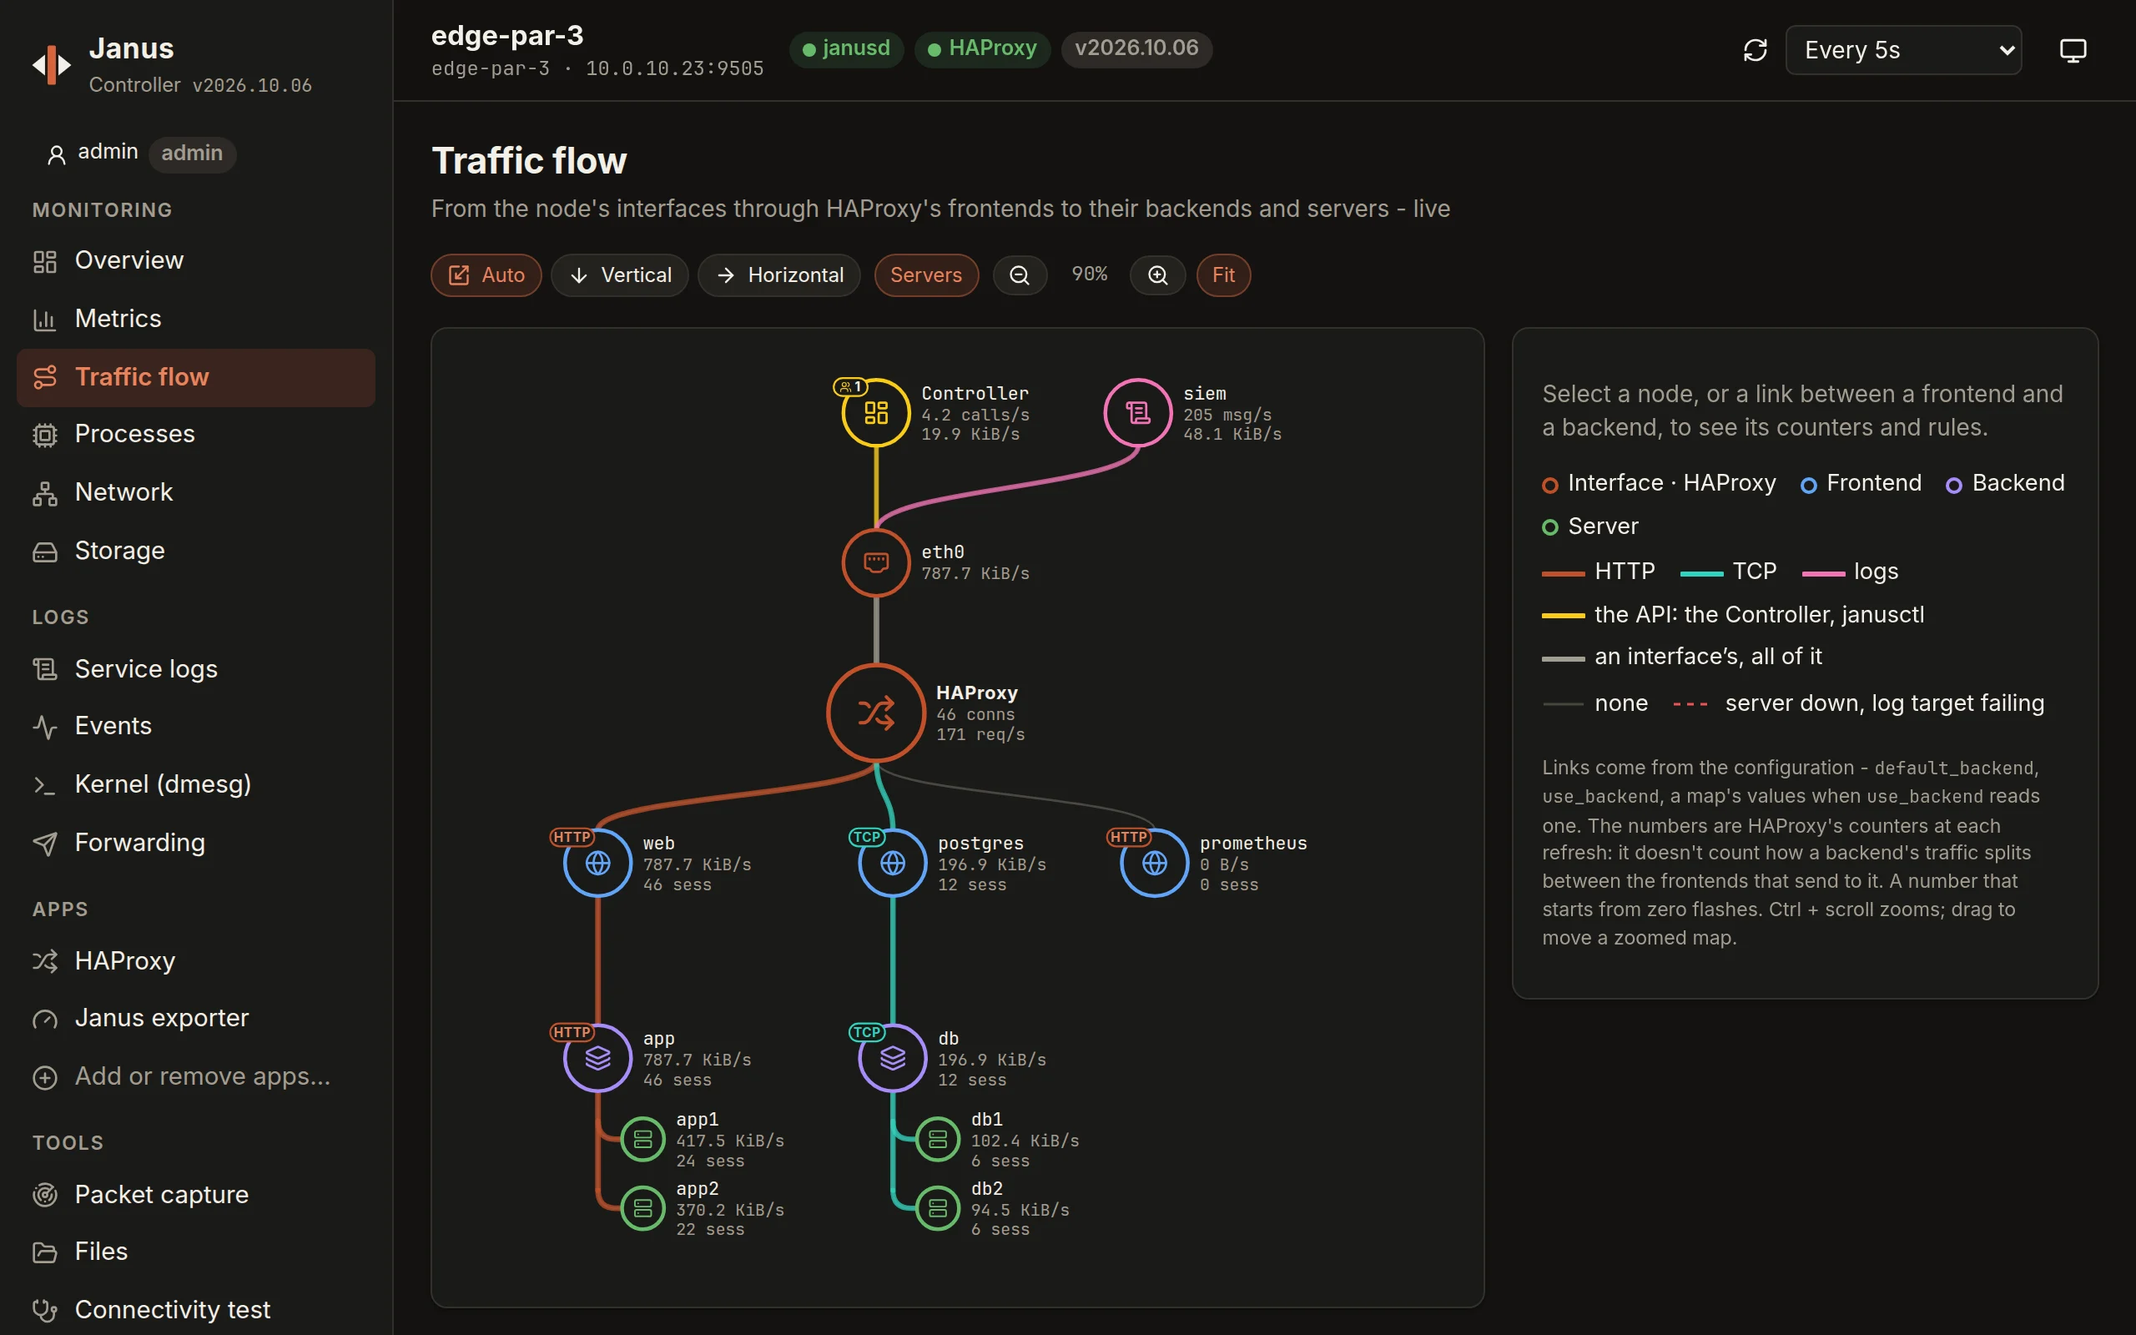
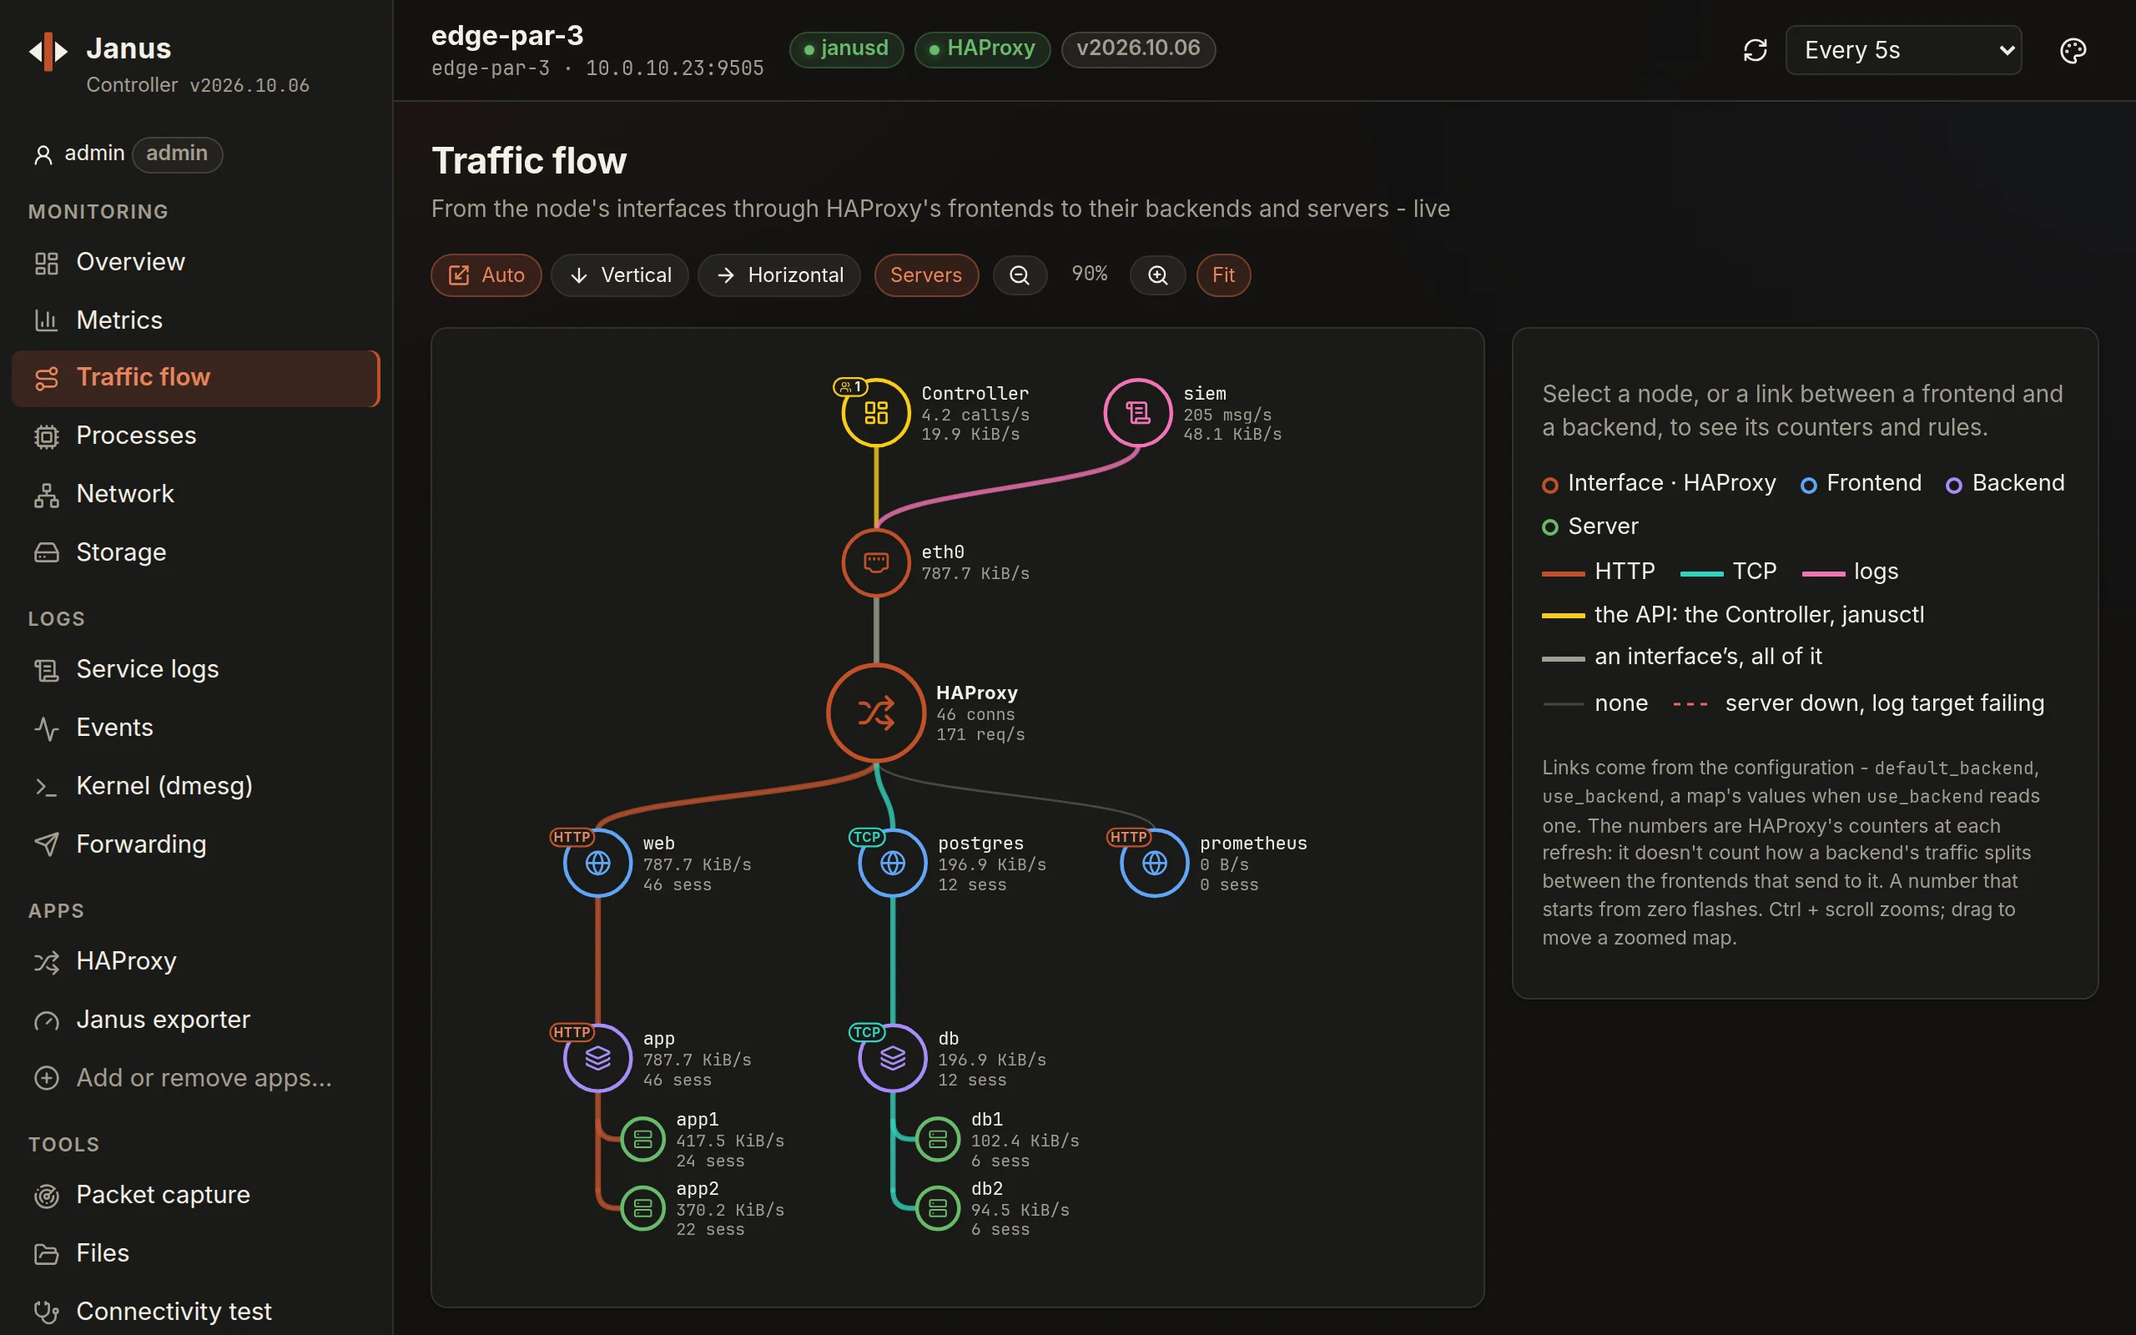
docs: the Controller's appearance, charts, rail and curves
docs/controller-ui.md: the palettes and the picker (Appearance), the
fluid charts (Charts), the gauges, the rail, the node list's curves and
their sampler, ui-preview's new address, reload ui and check; theme.css
is the site's too. The READMEs say what the pages look like now,
docs/upstreams.md where the font comes from.

The docs' screenshots taken again: hack/browser/shots.mjs gives the
node list's curves and the mounts fixed figures, pins a node page's
sidebar open (folded, it's a rail of icons) and puts the pointer on the
top bar - (0, 0) is on the sidebar, which opens under it.

diff --git a/docs/controller-ui.md b/docs/controller-ui.md
@@ -31,10 +31,18 @@ else from `src/shared/`:
   `--accent`, `--ok`/`--warn`/`--danger`/`--info` and their `-soft`
   backgrounds, `--chart-1..5`) and the base components (cards, buttons,
   inputs, badges, tables, notices, meters). Colors come from the logo:
-  warm off-white and near-black, and the brand orange (`#C2502A`,
-  `#D8643C` in dark mode).
+  warm off-white and near-black, and the brand orange (`#C2502A`).
+  **The site imports it too** (`site/`): its colours are the Janus
+  palette's, and a change to it, `theme.jsx` or `ui.jsx` changes the
+  site's build.
 - `theme.jsx` - `ThemeToggle` (system → light → dark, remembered per
-  browser) and `Logo`.
+  browser) and `Logo`: the site's; the Controller has its own (below).
+- The Controller's own, imported by both of its pages after
+  `theme.css` (never by the site): see [Appearance](#appearance) -
+  `palettes.css`, `appearance.js`, `ThemePicker.jsx`, `BrandMark.jsx`,
+  `controller.css` (its look over theme.css: cards, pills, figures,
+  the page's glows, gauges), `Gauge.jsx`, and `chart/` - the charts
+  ([Charts](#charts)).
 - `ui.jsx` - `Card`, `Stat`, `Badge` (+ `stateTone`), `Tabs`,
   `PageHeader`, `Meter`, `Loading`/`ErrorBox`/`Empty`, toasts
   (`useToast`), the confirmation dialog (`useConfirm`) and `useAction`
@@ -48,13 +56,63 @@ else from `src/shared/`:
 
 Rules:
 
-- **Use the tokens, never raw colors.** Every color must work in both
-  themes; dark mode is not an afterthought. Check new screens in both.
+- **Use the tokens, never raw colors.** Every color must work in every
+  palette, light and dark; dark mode is not an afterthought. Check new
+  screens in several (`hack/ui-preview.sh check` walks them all). A new
+  token goes in every block of `palettes.css` - `npm test` holds each
+  one to the same tokens and to WCAG AA.
 - **Reuse the shared primitives** before writing new ones. Something
   both pages could use goes in `src/shared/`.
 - Icons come from `lucide-react` (tree-shaken, only what's imported ships).
 - No UI or chart library beyond that: the chart is our own SVG component
-  (`src/node/components/Chart.jsx`) - small, and it does what we need.
+  (`src/shared/chart/`) - small, and it does what we need.
+- **A card's title is set in small capitals** (`controller.css`); one
+  that names something - a backend, a file, a certificate, a flow node -
+  keeps its case: `className="data-title"` on its `Card`, or a title in
+  `.mono`. Figures are in the monospace face (`--mono`: JetBrains Mono,
+  shipped with the pages - `src/shared/fonts/jetbrains-mono/README.md`).
+
+### Appearance
+
+Five palettes, each light and dark (`palettes.css`): **Janus** - the
+default, theme.css's own colours -, **Nord**, **Abysse** (a deep night
+blue, slightly translucent cards, cyan and green), **Tokyo Night** and
+**Catppuccin**, the official shades adjusted where they fall short of
+AA. The top bar's palette button (`ThemePicker`, on both pages and the
+sign-in screen) chooses the mode - the system's, light or dark - and the
+palette, from tiles drawn in each palette's own colours: a block of
+`palettes.css` applies to any element carrying `data-palette` and
+`data-theme`, not only to the page. Remembered per browser
+(`appearance.js`: `janus-theme`, the site's key for the mode, and
+`janus-palette`) and followed at once by every open page of the
+Controller (`storage` events) and by the system turning dark.
+
+`<html>` always carries the palette and the mode in effect
+(`data-palette`, `data-theme`), set before the page paints by
+`public/theme-boot.js` - a module script runs too late, and a dark
+palette would flash the light default; keep its lists equal to
+`appearance.js`' (a test runs it). `BrandMark` draws the symbol in the
+palette's accent and text colours (the favicon follows only the system's
+mode).
+
+Every block defines the same tokens - theme.css's, plus the Controller's
+own: `--card-bg` (a card's background, translucent in Abysse;
+`--surface` stays opaque for sticky table headers and inputs),
+`--card-shadow`, `--glow-1`/`--glow-2` (the page's two faint glows),
+`--danger-solid` (a solid danger button's fill) and the traffic flow's
+`--flow-tcp`/`--flow-log`/`--flow-api`. `palettes.test.js` holds each
+block to WCAG AA: text and muted text 4.5:1 on the page and its
+surfaces, `--accent-ink` and the status colours 4.5:1 on the page and
+on their `-soft` tints (composited), a danger button's text, the
+accent 3:1, chart colours 3:1 on a card, a flow badge's text 4.5:1 -
+and theme.css to the Janus blocks.
+
+**Gauges** (`Gauge.jsx`, `GaugeStat`): how full something is, a half
+circle of 28 segments lit from the left in a chart colour, amber past
+75 % and red past 90 % (Meter's thresholds), a `meter` to assistive
+technology - a node's CPU, memory and STATE on its Overview, each
+writable filesystem on Storage, a hypervisor's CPU, memory and pool.
+`Meter` stays for bars in tables and relative sizes.
 
 ## The main page
 
@@ -63,7 +121,9 @@ Three tabs (hash routes `#/`, `#/hypervisors`, `#/tokens`), and two more for an 
 **Nodes**: until the fleet is set up, **Secure your fleet**
 (`Fleet.jsx`: create it, store the recovery kit and its passphrase,
 give both back - `/api/fleet/*`, session only); pending approvals, then
-the nodes as cards - each with its **Trust** once the fleet is ready
+the nodes as cards - each with its last five minutes (CPU, HAProxy's
+requests, its traffic: `NodeSparklines`, see [Live data](#live-data))
+and its **Trust** once the fleet is ready
 (`fleet`, `needs an update`, an error) - then the **Fleet** card and
 provisioning. A node the Controller created on a hypervisor shows its
 virtual machine on its card (state, reset/force-off/start, console) and
@@ -265,7 +325,13 @@ confirmation repeats the warning; the Controller's `POST` needs
 Hash routing (`#/haproxy/config`, `#/tools/files?path=/etc`), a sidebar
 grouped by intent, and a sticky top bar with the node's identity, health
 badges, version (and available update), the refresh interval and the
-theme toggle:
+appearance picker. On a wide screen with a mouse the sidebar is a rail
+of its icons (`rail.js`, `node.css`) that opens over the page - never
+pushing it - while the pointer or the keyboard's focus is in it, or
+stays open pinned ("Keep it open", remembered per browser as
+`janus-sidebar`); folding moves nothing - the labels only fade, still
+read by assistive technology. A touch screen keeps it open, a narrow one
+has its drawer. Its groups:
 
 - **Monitoring** - overview, metrics, traffic flow, processes, network,
   storage
@@ -526,8 +592,48 @@ both tests.
   counter going backwards (HAProxy reload) gives no point rather than a
   negative rate.
 - **Charts** leave gaps where data is missing (e.g. during a reboot)
+  and where samples are more than 2.5 intervals apart (a hidden tab),
   instead of drawing a line through them, follow the data until the time
-  window is full, and use binary steps for bytes.
+  window is full, and use binary steps for bytes - see [Charts](#charts).
+  Each sample carries its interval (`iv`); `MetricsProvider` gives every
+  chart of the page one clock (`clock`), so they scroll together.
+- **The node list's curves** (`NodeSparklines.jsx`, `nodeMetrics.js`):
+  `GET /api/nodes/metrics` - each node the account sees, its last
+  minutes of CPU, HAProxy requests and traffic, from the Controller's
+  sampler (below), asked only for what's newer (`?since=`), at the
+  sampler's pace, only while the Nodes tab shows - each request keeps
+  the sampling going -, as a background request.
+
+### Charts
+
+`src/shared/chart/`: `Chart` (and `Sparkline`, a chart reduced to its
+curve), its arithmetic in `math.js` (unit-tested), one animation loop
+for every chart (`scheduler.js`).
+
+- **They move continuously** while the page samples: the time axis
+  scrolls every frame, its right edge about one sampling interval behind
+  the samples' clock (`ServerClock`: the Controller's, a sample's time
+  being when it asked the node; the browser's offset smoothed) - each
+  new sample is already there, just off the edge, when the line reaches
+  it, so the line grows instead of jumping a step per sample. The edge
+  keeps to 0.75-1.25 times the real pace, never goes back, and stops at
+  the newest sample when samples stop; the value axis eases to a new
+  scale.
+- **Curves are monotone cubics** (Steffen's tangents): between two
+  samples the line stays between their values - never below zero beside
+  a burst, never past 100 % - the first series' area (or any with
+  `fill`) fading down to the baseline.
+- **Cheap frames**: a chart builds its paths once per sample, in the
+  samples' own units; a frame sets one transform on them (the lines
+  keep their width, `vector-effect`), the time ticks' and the hovered
+  sample's - set directly, no render. Asleep off screen
+  (IntersectionObserver) and in a hidden tab.
+- **Still** - redrawn per sample, the edge on the newest sample - under
+  "reduce motion", with sampling off, or `motion="static"`: what the
+  docs' screenshots take (Playwright's clock drives animation frames
+  too).
+- Value axes end on round quarters (`niceMax`), time ticks on round
+  times, scrolling with the data and fading at the ends.
 - **Events** (Logs › Events): the node's event log, kept on its STATE -
   the last thousand, across reboots and updates; each `janusd.started` is
   drawn as a line of its own (version, slot), the events of another day
@@ -620,6 +726,17 @@ turn, and the step waited for is written under it.
 - The Controller never exposes its service credential, and the
   browser's certificate is never used to reach the node (see the package
   doc) - a new feature must not change that.
+- **The node list's curves** (`internal/nodemetrics`, `nodes_metrics.go`):
+  one sampler however many pages look, reading a node (`nodeproxy.
+  ReadCounters`: SystemStat, NetworkDeviceStats, ShowInfo) every 5 s
+  only while a page asks for it - each request renews a 45 s lease -,
+  16 at once at most, 4 s each, detached from the request; it keeps 10
+  minutes, so a page opened again finds its curves drawn. It reads as
+  the Controller (`Automation`, like `/api/nodes/status`): those calls
+  are a reader's, in the observe domain every permission on a node
+  includes, so whoever sees a node may read its figures anyway; a node
+  that doesn't trust the fleet yet gets curves for an admin only, like
+  its page.
 
 ## Verifying a change
 
@@ -661,10 +778,16 @@ turn, and the step waited for is written under it.
    account (lea's) on edge-1's page now and then and a janusctl
    following its events - the Traffic flow's Controller users and
    direct clients -, the Controller on `https://127.0.0.1:18443`
-   (`ssh -N -L 18443:127.0.0.1:18443 HOST` from another machine), its account and
-   the `janusctl login` printed. `hack/ui-preview.sh reload` after a
-   change (the binaries built again, the Controller and nodes restarted,
-   their state kept), `down` to remove it.
+   (`ssh -N -L 18443:127.0.0.1:18443 HOST` from another machine, or
+   published on one of its addresses: `UI_PREVIEW_BIND=ADDRESS
+   UI_PREVIEW_HOST=NAME`, the name in its certificate - its passwords
+   are fixed), its account and the `janusctl login` printed.
+   `hack/ui-preview.sh reload` after a change (the binaries built again,
+   the Controller and nodes restarted, their state kept; `reload ui`:
+   the Controller alone, after a frontend build), `check` to walk its
+   pages in every palette and mode (`hack/ui-preview/check.mjs`: axe,
+   no error, the appearance, motion and the sidebar - its screenshots
+   in `build/ui-preview/check`), `down` to remove it.
 4. Anything the `local-dev` container can't show (dmesg, A/B slots,
    reboot, SELinux) gets checked against a real node booted from
    `build/rootfs/disk.img` under QEMU/OVMF.

diff --git a/dashboard/README.md b/dashboard/README.md
@@ -8,7 +8,7 @@ it in one click with the updater (see [Updating the
 Controller](#updating-the-controller)). Each node then has its own page,
 with a sidebar:
 
-![The Controller's node list: three nodes online, each with its labels, version, HAProxy health, uptime and fleet trust, then the fleet's state](../docs/assets/screenshots/controller-nodes-light.webp)
+![The Controller's node list: three nodes online, each with its last minutes of CPU, requests and traffic, its labels, version, HAProxy health, uptime and fleet trust, then the fleet's state](../docs/assets/screenshots/controller-nodes-light.webp)
 
 - **Monitoring** - an overview, live charts (CPU, memory, load, network,
   HAProxy requests/connections/rates; refresh selectable from 1 s to
@@ -31,14 +31,17 @@ with a sidebar:
   serving), reboot, shut down, reset - with the page following the node
   until it's back.
 
-![A node's overview: CPU, memory, HAProxy connections and uptime, live charts of CPU and memory, HAProxy traffic and the network, and the node's release, kernel and CPU](../docs/assets/screenshots/node-overview-light.webp)
+![A node's overview: gauges of its CPU, memory and STATE, HAProxy connections and uptime, live charts of CPU and memory, HAProxy traffic and the network, and the node's release, kernel and CPU](../docs/assets/screenshots/node-overview-light.webp)
 
 A node's page is on the Controller's own address, under
 `/nodes/<id>/`, behind your account - no certificate in the browser. The
 Controller acts on the node for your account, with its role there
 (`os:reader`, `os:operator`, `os:admin`), and the node logs who acted.
 
-Light and dark themes follow the system, or can be chosen per browser.
+Five palettes - Janus (the default), Nord, Abysse, Tokyo Night and
+Catppuccin - each light and dark, the mode following the system or
+chosen, per browser. A node's charts move continuously while its page
+samples it, and the node list shows each node's last five minutes.
 Design principles and how to verify a UI change:
 [`docs/controller-ui.md`](../docs/controller-ui.md).
 

diff --git a/docs/upstreams.md b/docs/upstreams.md
@@ -11,6 +11,7 @@ and watched for vulnerabilities - and how a release says what it fixes.
 |---|---|---|
 | Go modules (both modules), npm packages (both frontends, the docs site, the browser image), base images, GitHub Actions | `go.mod`, `package-lock.json`, `FROM image:tag@digest`, `uses: action@sha # vX` | Dependabot (`.github/dependabot.yml`): weekly pull requests, minor/patch grouped; Dependabot alerts and security updates are on. The browser image (`hack/browser`) pins Playwright twice - its image and its npm package - and refuses to build when Dependabot bumps one without the other |
 | Every upstream release the build downloads | [`versions.mk`](../versions.mk): version + sha256 | `hack/upstream` (this page) |
+| The Controller's monospace font (JetBrains Mono, a subset committed as woff2) | [`dashboard/frontend/src/shared/fonts/jetbrains-mono/README.md`](../dashboard/frontend/src/shared/fonts/jetbrains-mono/README.md): release, zip sha256, how the subset is made | By hand - a font has no vulnerabilities to follow; a new release only if it fixes a glyph we show |
 
 Dependabot can't follow `versions.mk`: nothing there is a package it knows,
 and a bump isn't a version number - it's a checksum, checked against

diff --git a/dashboard/dockerhub-overview.md b/dashboard/dockerhub-overview.md
@@ -46,7 +46,7 @@ run them from:
 - **Its own updates** - one click from its page, rolled back by itself
   if the new version doesn't start.
 
-![The Controller's node list: three nodes online, each with its labels, version, HAProxy health, uptime and fleet trust, then the fleet's state](https://raw.githubusercontent.com/swenske/Janus/main/docs/assets/screenshots/controller-nodes-light.webp)
+![The Controller's node list: three nodes online, each with its last minutes of CPU, requests and traffic, its labels, version, HAProxy health, uptime and fleet trust, then the fleet's state](https://raw.githubusercontent.com/swenske/Janus/main/docs/assets/screenshots/controller-nodes-light.webp)
 
 The complete guide - accounts, the fleet, hypervisors, backups,
 updates: [The Controller](https://janus.sw-servers.net/docs/dashboard/README.md).
